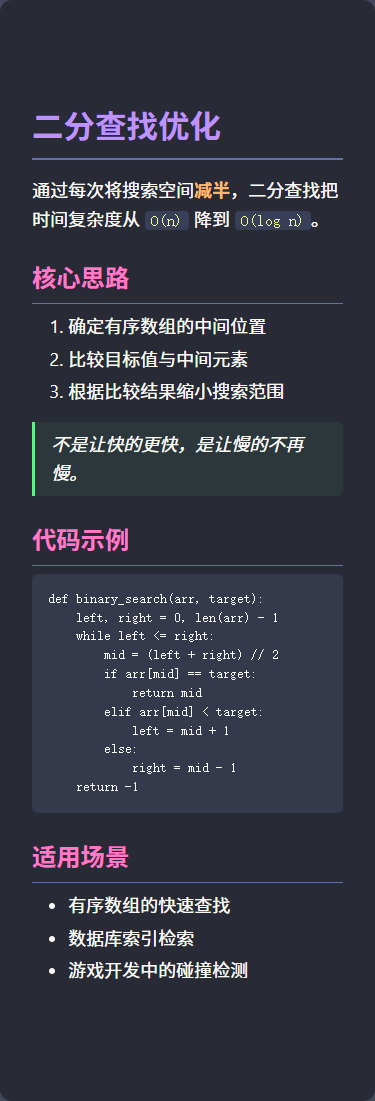
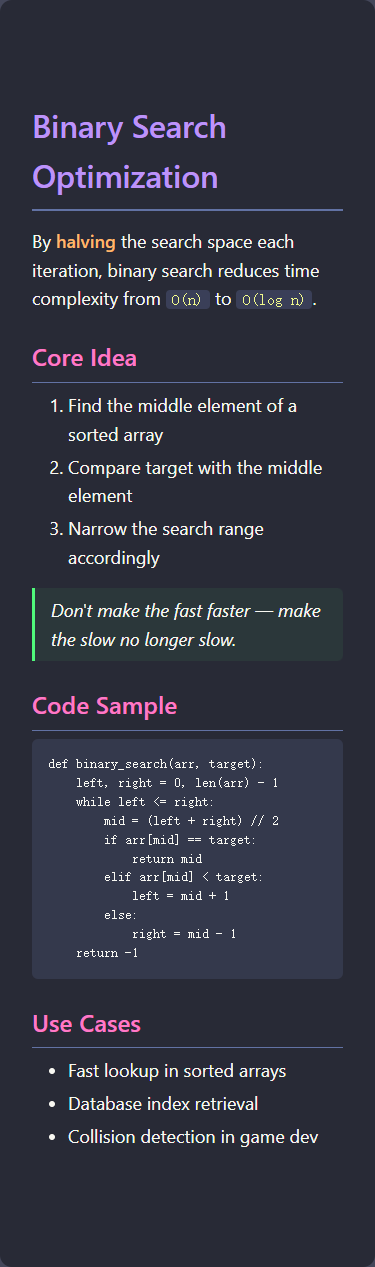
docs: regenerate rosepine/dracula/nord demos with English content

Changed region(s): [[0.088, 0.0926, 0.9093, 0.9264], [0.7333, 0.4632, 0.8507, 0.4941]]

diff --git a/assets/demo-content-en.html b/assets/demo-content-en.html
@@ -1,0 +1,27 @@
+<h1>Binary Search Optimization</h1>
+<p>By <strong>halving</strong> the search space each iteration, binary search reduces time complexity from <code>O(n)</code> to <code>O(log n)</code>.</p>
+<h2>Core Idea</h2>
+<ol>
+<li>Find the middle element of a sorted array</li>
+<li>Compare target with the middle element</li>
+<li>Narrow the search range accordingly</li>
+</ol>
+<blockquote>Don't make the fast faster — make the slow no longer slow.</blockquote>
+<h2>Code Sample</h2>
+<pre><code>def binary_search(arr, target):
+    left, right = 0, len(arr) - 1
+    while left &lt;= right:
+        mid = (left + right) // 2
+        if arr[mid] == target:
+            return mid
+        elif arr[mid] &lt; target:
+            left = mid + 1
+        else:
+            right = mid - 1
+    return -1</code></pre>
+<h2>Use Cases</h2>
+<ul>
+<li>Fast lookup in sorted arrays</li>
+<li>Database index retrieval</li>
+<li>Collision detection in game dev</li>
+</ul>